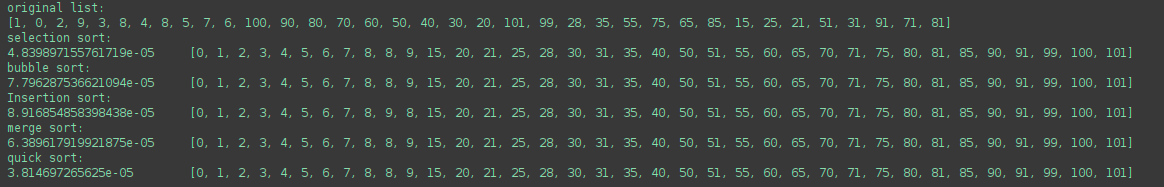
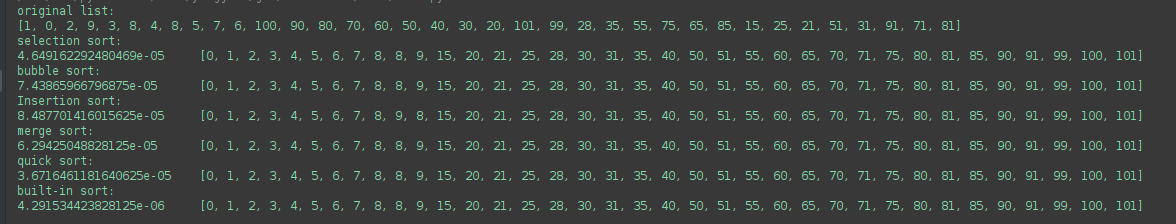
Compare to built-in sort

Changed region(s): [[0.0, 0.0, 0.9897, 0.9626]]

diff --git a/Sort/sort.py b/Sort/sort.py
@@ -169,3 +169,8 @@ if __name__ == "__main__":
     quick_sort_rec(tmp, 0, len(tmp) - 1)
     print("%-25s %s" % (time.time() - t0, tmp))
 
+    print("built-in sort:")
+    tmp = l[:]
+    t0 = time.time()
+    tmp.sort()
+    print("%-25s %s" % (time.time() - t0, tmp))

diff --git a/Sort/README.md b/Sort/README.md
@@ -70,7 +70,8 @@ Python implementation of all four
 [sort.py](sort.py)
 
 ## Comparison
-![result](images/sort_results.png)
+![result](images/sort_results.png) The built-in sort of list out-performs all
+of the above.
 
 ## Trick
 Quick sort is good for finding the ith largest, because
